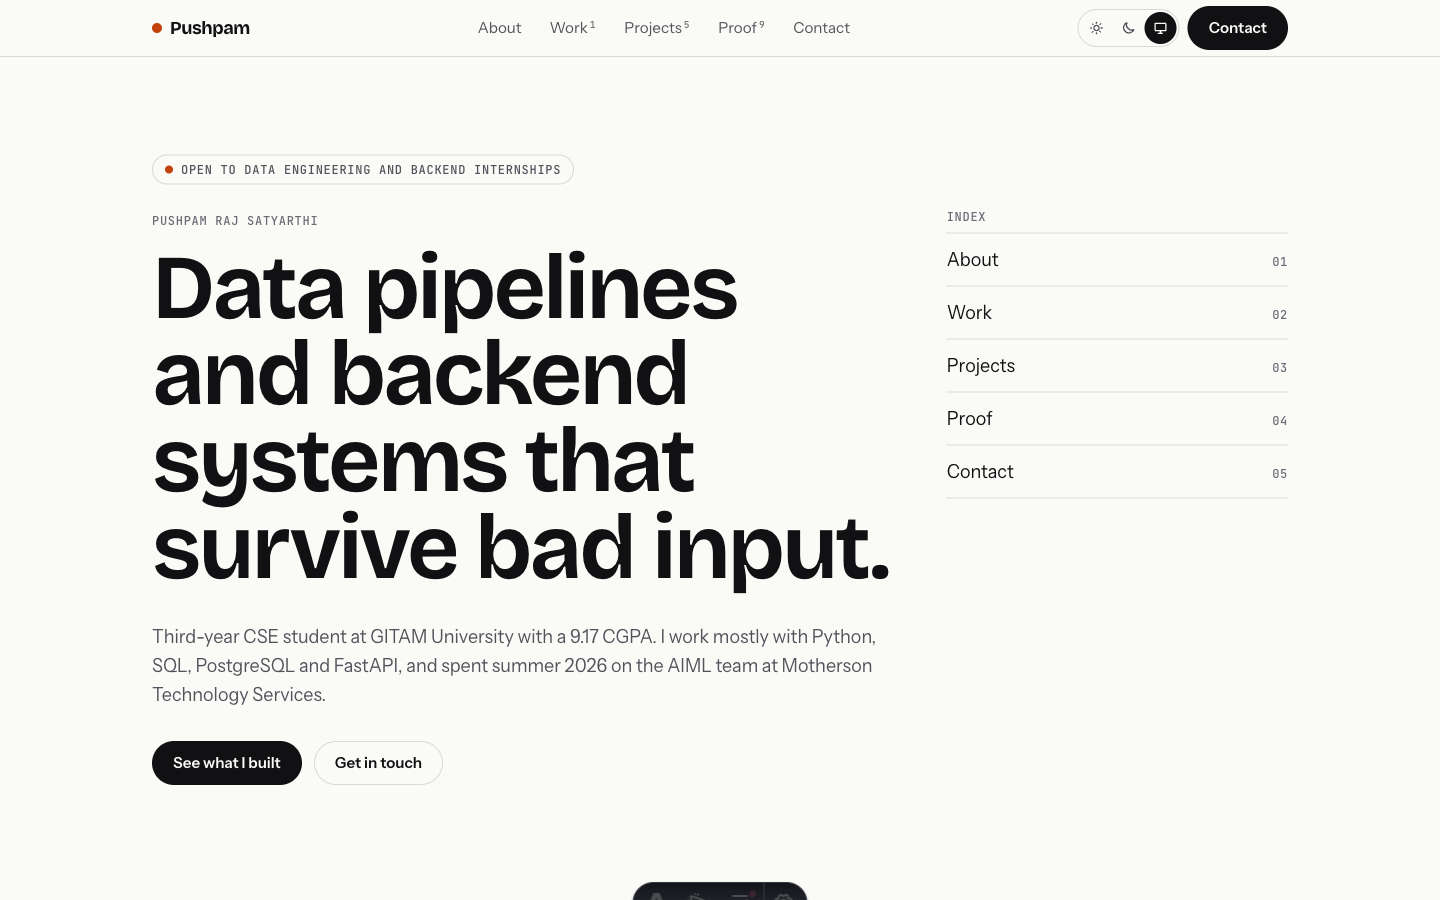
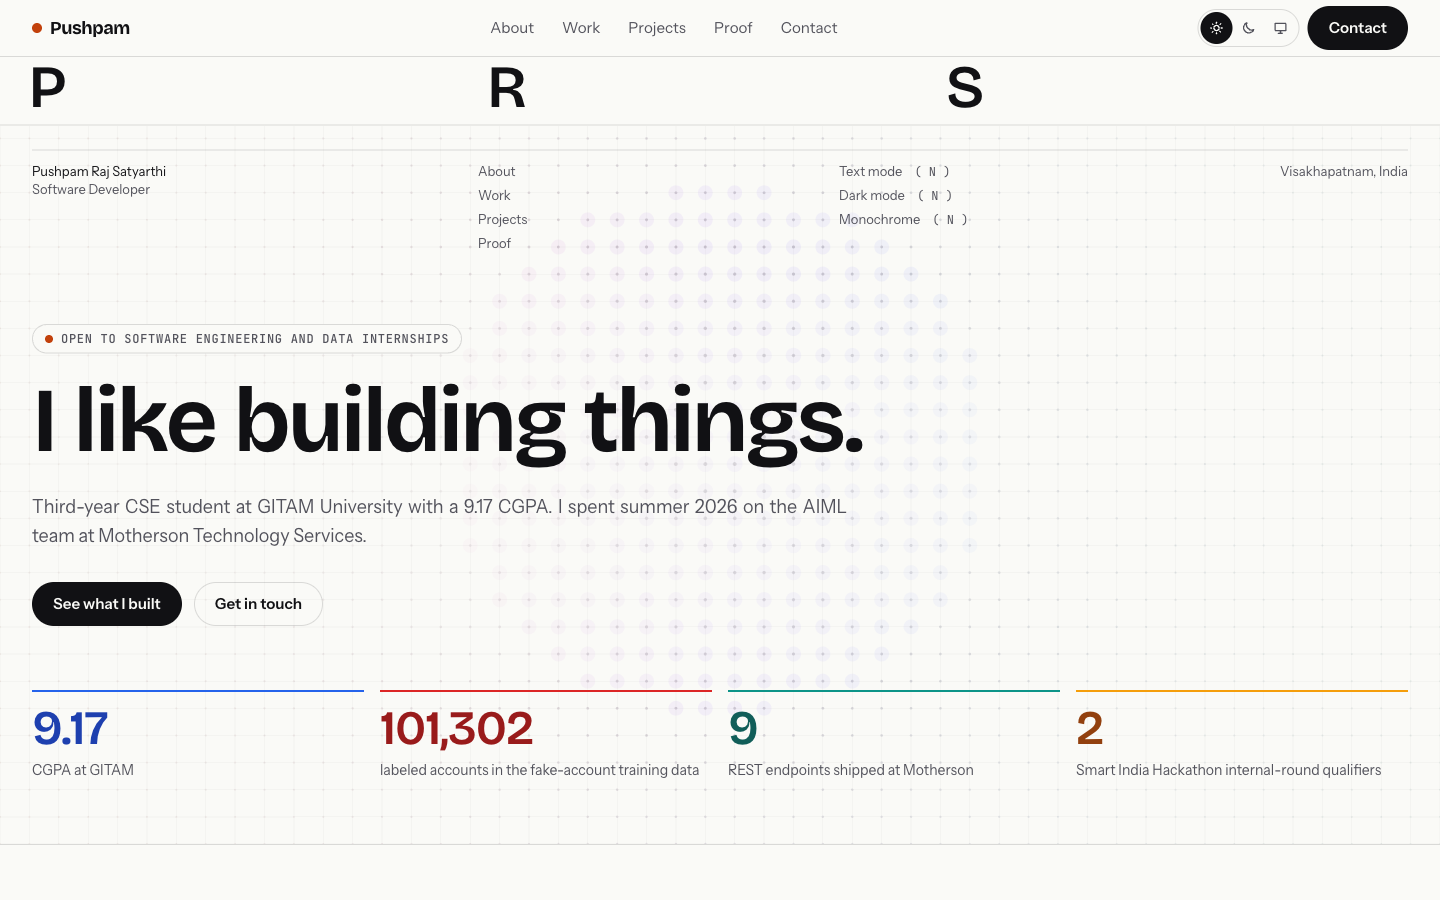
Refresh the README and screenshots for the rebuilt site
Rewrite the README for the current site (compact masthead, sections, hotkeys, where to edit content). Replace the old-design screenshots with new ones of the home page, projects, a project page, proof, dark mode and mobile. Keep the short section lead left-aligned.

diff --git a/README.md b/README.md
@@ -2,26 +2,31 @@
 
 My portfolio: https://pushpam2404-profile.vercel.app
 
-Built with [Astro](https://astro.build) and Tailwind CSS 4. It ships no framework JavaScript: the only script is about 60 lines for the theme switch, scroll reveal and active nav link. Fonts are self-hosted through `@fontsource`.
+Built with [Astro](https://astro.build) 7 and Tailwind CSS 4. No framework JavaScript ships to the browser: the scripts handle the theme switch, display modes, the proof list, the masthead and the hero mesh. Fonts are self-hosted through `@fontsource`.
 
 ![Home page at 1440px](docs/screenshots/home-desktop.png)
 
-| Projects | Mobile |
+| Projects | Project page |
 |---|---|
-| ![Projects at 1440px](docs/screenshots/projects-desktop.png) | ![Home page at 375px](docs/screenshots/home-mobile.png) |
+| ![Projects at 1440px](docs/screenshots/projects-desktop.png) | ![A project page at 1440px](docs/screenshots/project-page-desktop.png) |
 
-## Structure
+| Proof | Dark mode | Mobile |
+|---|---|---|
+| ![Proof section at 1440px](docs/screenshots/proof-desktop.png) | ![Home page in dark mode](docs/screenshots/home-dark-desktop.png) | ![Home page at 375px](docs/screenshots/home-mobile.png) |
 
-The page follows one flow: who I am, what I build, proof, contact.
+## What is on the site
 
 | Section | What is in it |
 |---|---|
-| Hero | The headline, an index of the sections, and four numbers that can each be checked |
-| 01 Who I am | About, leadership and community, education, and an illustrative ETL figure |
+| Masthead | A compact bar under the nav on every page with my initials. Hover (or tap on a phone) and it spells the name out |
+| Hero | The headline, a line about me and four numbers that can each be checked, over a living dot mesh |
+| 01 Who I am | About, leadership and community, education, and a figure of the three layers I work in |
 | 02 Work | The Motherson internship and the toolbox |
-| 03 Projects | Five projects with their own pages under `/projects/<name>/`, plus a list of other repositories |
-| 04 Proof | Every claim with its evidence and a status: verified, measured or reported. Also the IBM course certificates and hackathons |
+| 03 Projects | Seven projects as cards with their own pages under `/projects/<name>/`, plus a list of smaller work |
+| 04 Proof | Every claim with its evidence and a status. Also the IBM course certificates and hackathons |
 | 05 Contact | Email, LinkedIn, GitHub, phone |
+
+Keyboard shortcuts: **T** text mode (swaps pictures for flat tiles), **D** dark mode, **M** monochrome.
 
 ## Running it
 
@@ -39,27 +44,22 @@ Node 22.23.4 or newer.
 Nothing is hard-coded in the components.
 
 - Projects: one YAML file each in `src/content/projects/`. The schema is `src/content.config.ts`, so a missing field fails the build. A project without a public link has `repo: null`.
+- Screenshots: `src/assets/projects/<project-name>/`, listed in order under `shots:` in the project's YAML with alt text. The first one is the card picture. They are real screenshots only, taken from the live sites or local runs with demo data.
 - Everything else (hero numbers, experience, education, skills, leadership, proof table, other repositories): `src/data/site.ts`.
-- Screenshots: `src/assets/projects/<project-name>.png`, with the alt text in the YAML as `imageAlt`.
-- Colors, type scale and motion tokens: `src/styles/global.css`. The tokens come from the design system.
+- Colors, type scale and motion tokens: `src/styles/global.css`. The design rules are in `docs/DESIGN_SYSTEM.md` and `CLAUDE.md`.
 - `TODO` comments mark gaps that need information only I have.
 
 ## Proof statuses
 
 - **Verified**: anyone can check it in a public repository or live site.
-- **Measured**: my own benchmark, with the method and caveats written down.
+- **Measured**: my own benchmark, with the method written down.
 - **Reported**: my account of private or institutional work, with no public evidence yet.
 
 ## Deploying
 
-Vercel builds with `vercel.json` (`framework: astro`, `npm run build`, output `dist`).
+Vercel builds with `vercel.json` (`framework: astro`, `npm run build`, output `dist`). Every push to `main` deploys in about a minute.
 
-## What changed from the old site
+## Screenshots and the social preview
 
-- The fake terminal and the project details drawer are gone. The terminal repeated content that is now in the sections, and each project has a real page instead of a drawer.
-- Added the fake-account detection engine (my headline project), the SIH 2026 result, and the leadership roles, which the old site did not have.
-- The hero numbers are ones I can point to. The old site's "29 integration checks" is now 23, which is what the repository contains today.
-
-## Social preview
-
-`docs/social-preview.html` is the source for `public/og.png`. Open it at 1200x630, screenshot it, and copy the PNG to `public/og.png` and `docs/social-preview.png`.
+- The pictures in `docs/screenshots/` come from the running site at 1440 px (375 px for mobile).
+- `docs/social-preview.html` is the source for `public/og.png`. Open it at 1200x630, screenshot it, and copy the PNG to `public/og.png` and `docs/social-preview.png`.
